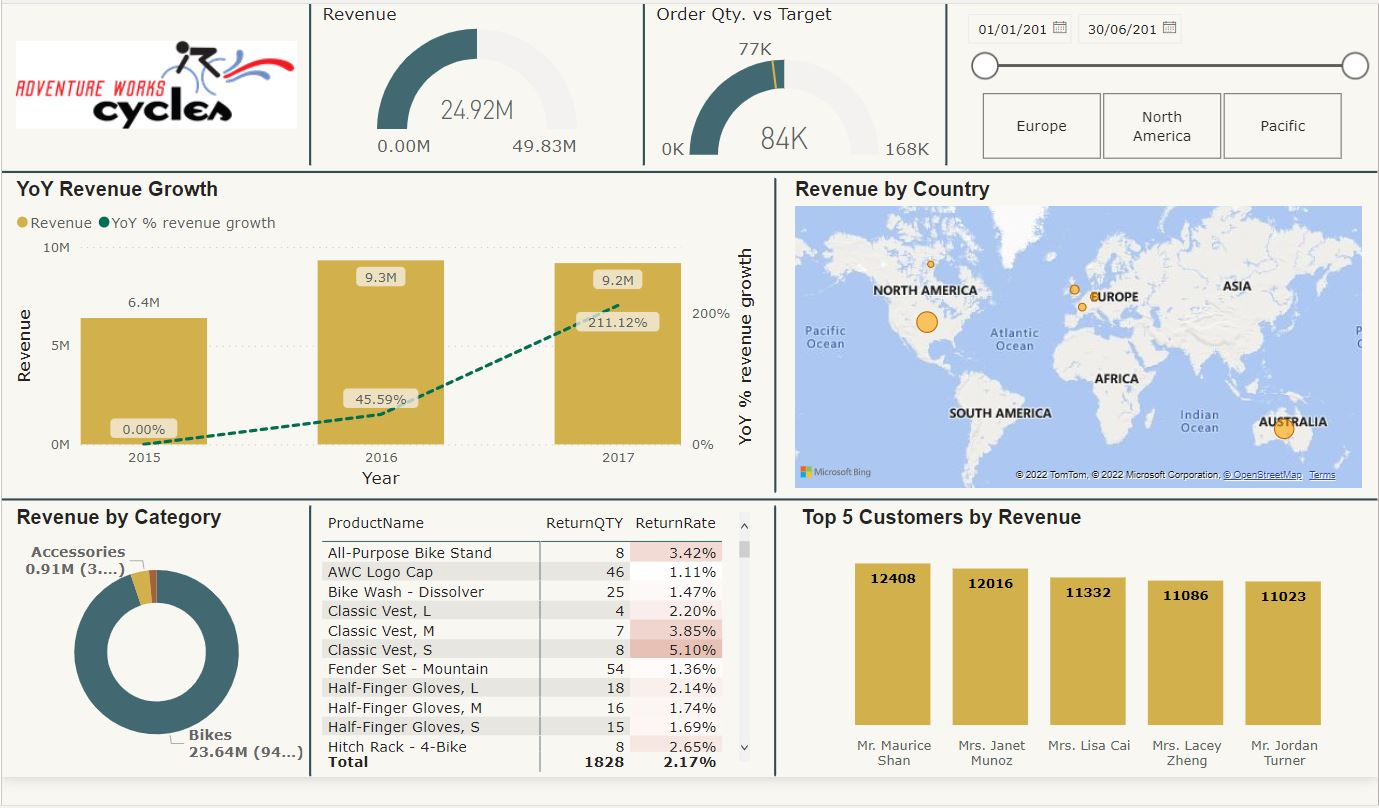
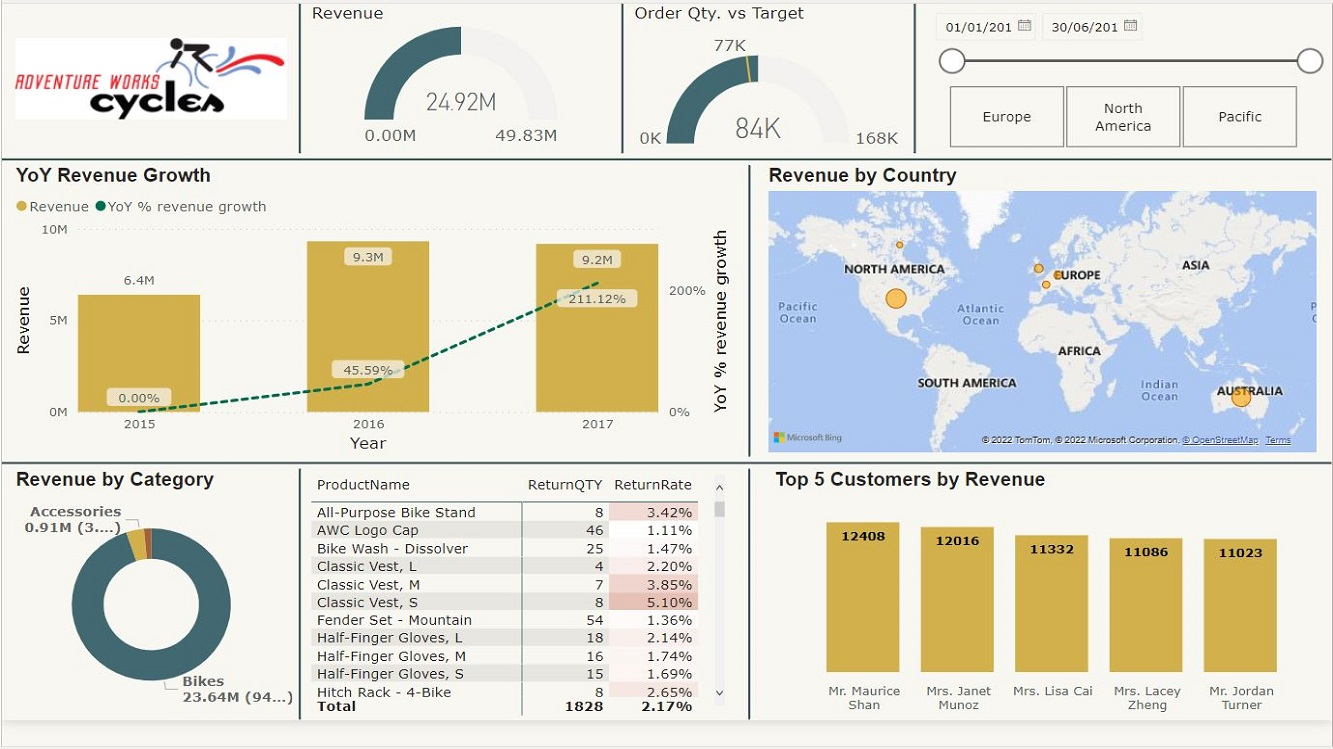
awproject correct image uploaded

diff --git a/index.html b/index.html
@@ -76,7 +76,7 @@
 						<!-- <span class="date">April 24, 2017</span> -->
 						<h2><a>AW Cycles Sales Report</a></h2>
 					</header>
-					<a href="sales_report_pbi.html" class="image fit"><img src="images/AWReport.png" alt="" /></a>
+					<a href="sales_report_pbi.html" class="image fit"><img src="images/AWReport.JPG" alt="" /></a>
 					<ul class="actions special">
 						<li><a href="sales_report_pbi.html" class="button" target="_blank">See More</a></li>
 					</ul>

diff --git a/sales_report_pbi.html b/sales_report_pbi.html
@@ -39,7 +39,7 @@
 									<h1>AW Cycles Sales Report</h1>
 									<p>Power BI</p>
 								</header>
-								<div class="image main"><img src="images/AWReport.png" alt="" /></div>
+								<div class="image main"><img src="images/AWReport.JPG" alt="" /></div>
 								<ul>
 									<li>Coffee</li>
 									<li>Tea</li>
